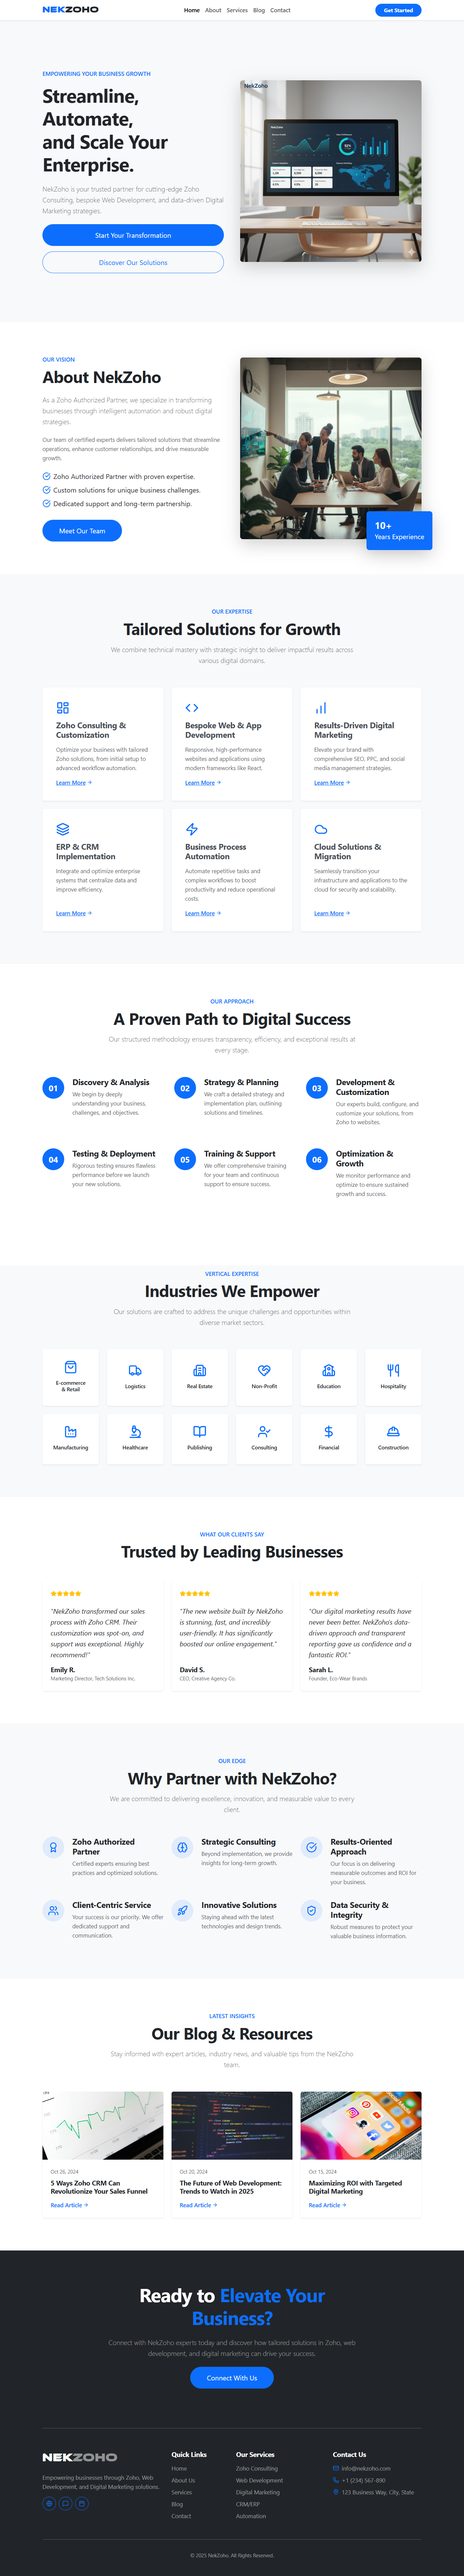
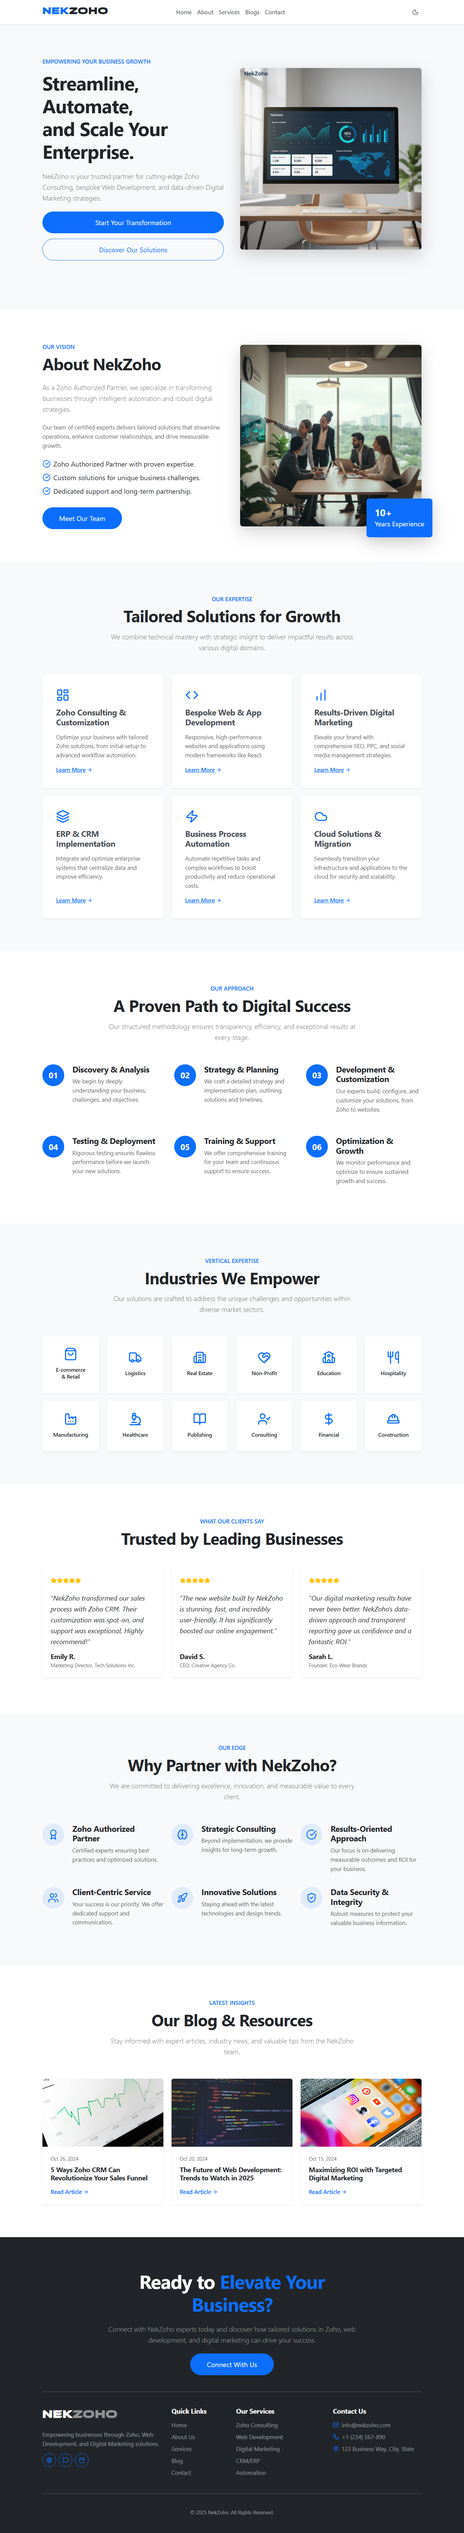
Fixed Dark Mode Bugs

diff --git a/src/App.jsx b/src/App.jsx
@@ -20,7 +20,8 @@ import BlogsPage from "./pages/BlogsPage";
   const storedTheme = localStorage.getItem("theme");
   // Add system preference check if desired:
   // const prefersDark = window.matchMedia('(prefers-color-scheme: dark)').matches;
-  const themeToApply = storedTheme || "light"; // Default to light
+  // const themeToApply = storedTheme || "light";
+  const themeToApply = "light"; // Default to light
   document.documentElement.setAttribute("data-bs-theme", themeToApply);
 })();
 // --- End theme application ---

diff --git a/src/pages/AboutPage.jsx b/src/pages/AboutPage.jsx
@@ -34,9 +34,9 @@ const AboutPage = () => {
       {/* --- END CORE VALUES SECTION --- */}
 
       {/* --- ADD TEAM SECTION --- */}
-      <FadeInSection>
+      {/* <FadeInSection>
         <TeamSection />
-      </FadeInSection>
+      </FadeInSection> */}
       {/* --- END TEAM SECTION --- */}
 
       {/* Reuse the Why Choose Us Section component */}
